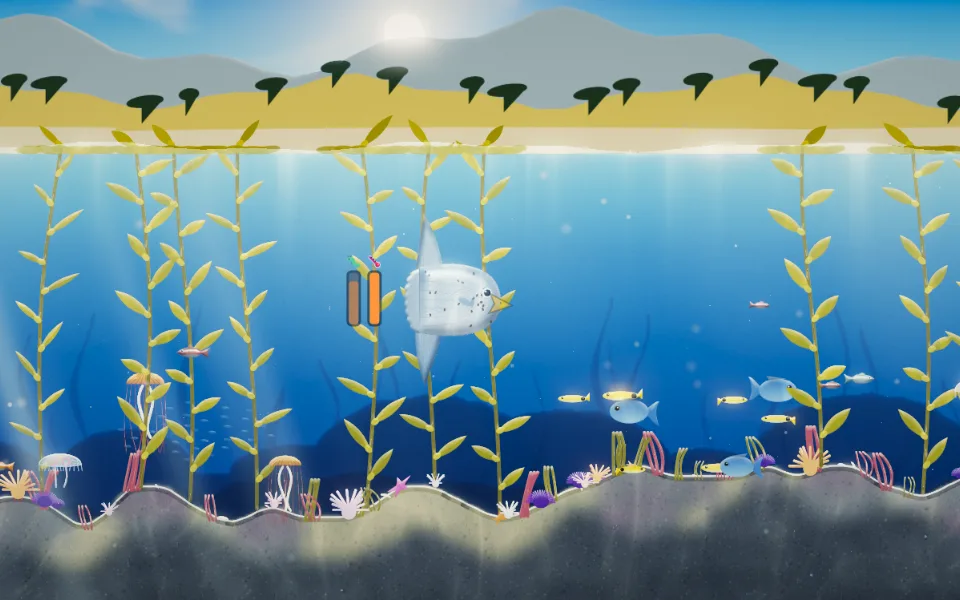
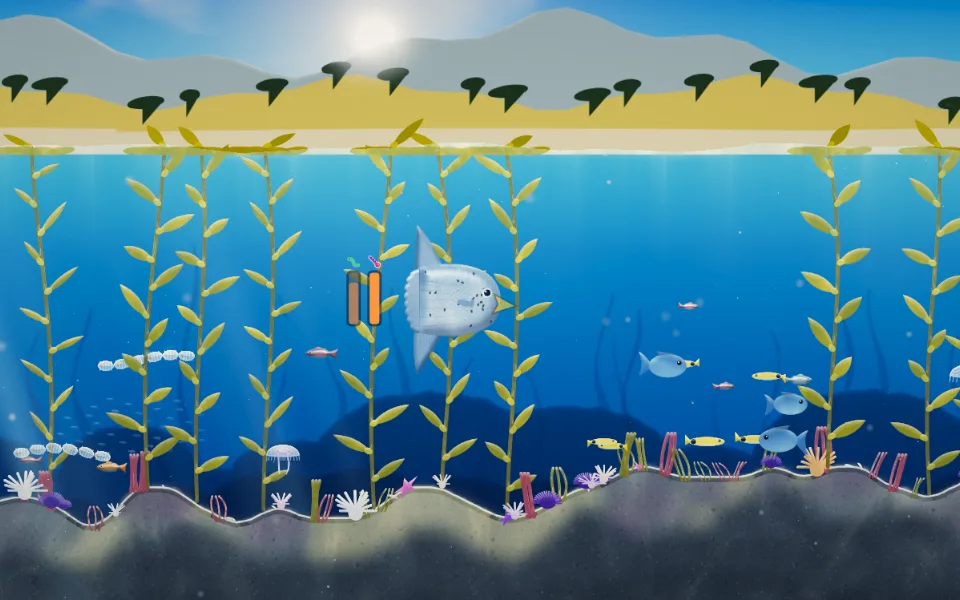
Sunfish: republish the clearer painted look (6455b95)

diff --git a/docs/sunfish/js/gfx.js b/docs/sunfish/js/gfx.js
@@ -141,22 +141,22 @@ const GFX = (function () {
       cc = mix(cc, vec3(.05, .06, .1), uNight * .85);
       col = mix(col, cc, dens * .6);
       /* the sea's far edge: a glint line where the water meets the sky */
-      col += vec3(.7, .85, 1.) * exp(-(sy - px.y) / 3.) * .25 * (uDay + .2);
-      src = .45 * uDay * (1. - .6 * uCloud) + .03;
+      col += vec3(.7, .85, 1.) * exp(-(sy - px.y) / 3.) * .12 * (uDay + .2);
+      src = .22 * uDay * (1. - .6 * uCloud) + .03;   /* not .45: the sky's light poured into the top of the sea as a milky band */
     } else {
       /* --- under the water --- */
       float d = max(0., wy - uSeaLevel), u = px.y - sy;
       col = water(d);
       /* light falls off from the surface; a soft glow below where the sun is */
-      col *= 1. + .25 * uDay * exp(-d / 45.);
-      col += uSunCol * toLin(vec3(.55, .85, .9)) * uDay * (1. - .6 * uCloud) * .08 * exp(-abs(px.x - uSun.x) / (uRes.x * .3)) * exp(-d / 100.);
+      col *= 1. + .1 * uDay * exp(-d / 45.);
+      col += uSunCol * toLin(vec3(.55, .85, .9)) * uDay * (1. - .6 * uCloud) * .05 * exp(-abs(px.x - uSun.x) / (uRes.x * .3)) * exp(-d / 100.);
       col += vec3(.25, .35, .55) * uMoon.z * .06 * exp(-abs(px.x - uMoon.x) / (uRes.x * .2)) * exp(-d / 120.);
       /* the surface seen from below: a bright skin, rippling cells of light, the sky's glow through Snell's window */
       float skin = exp(-u / (1.5 + uZoom * .7));
       float rip = caustic(vec2(wx * .012 + uTime * .02, uTime * .05 + wx * .003), uTime * .4);
       float under = exp(-u / (10. + 14. * uZoom));
       vec3 surfCol = mix(toLin(vec3(.62, .86, .9)), uSunCol, .25) * (uDay * (1. - .5 * uCloud) + .06 + uMoon.z * .12);
-      col += surfCol * (skin * .8 + under * (.2 + 1.1 * rip) * .22);   /* softer than Octopus: the open sea's top band washed out */
+      col += surfCol * (skin * .5 + under * (.2 + 1.1 * rip) * .1);   /* much softer than Octopus: a bright top band washed the open sea out milky */
       /* far boulders and kelp, three bands, blue with distance */
       if (uFarK > .01) {
         float t = uTime;
@@ -175,7 +175,7 @@ const GFX = (function () {
       }
       float xs = wx - d * uSlant;
       float shaft = n1(xs * .021 + uTime * .06) * n1(xs * .047 - uTime * .09 + 3.) * n1(xs * .009 + 7.);
-      src = uDay * (1. - .75 * uCloud) * exp(-d / 260.) * (.02 + 2.4 * shaft * shaft) * (.6 + .4 * exp(-u / 40.));
+      src = uDay * (1. - .75 * uCloud) * exp(-d / 260.) * (.02 + 2.4 * shaft * shaft) * (.6 + .15 * exp(-u / 40.));
     }
     o = vec4(col, clamp(src, 0., 1.));
   }`;
@@ -240,8 +240,8 @@ const GFX = (function () {
         float diff = .78 + .3 * top - .22 * bot + bump * .25;
         float cs = caustic(vec2(wx * .011, wy * .006 + wx * .002), uTime * .45) * uCaus * exp(-d / 380.) * (1. - uUnder) * 1.6;
         vec3 amb = wc * 2. + vec3(.04, .05, .062) * (1. - uNight * .6) + vec3(.012, .018, .034) * uNight;
-        lit = alb * (amb + (sunIn + moonIn) * diff * 1.5 + sunIn * cs * (1.1 + top * 1.5));
-        lit += (sunIn * .9 + moonIn * 2.) * edge * pow(max(-n.y, 0.), 1.5) * (.25 + .9 * dot(alb, vec3(.33)));
+        lit = alb * (amb + (sunIn + moonIn) * diff * 1.05 + sunIn * cs * (.8 + top * 1.1));   /* not 1.5: a silver sunfish near the top went white */
+        lit += (sunIn * .55 + moonIn * 2.) * edge * pow(max(-n.y, 0.), 1.5) * (.25 + .9 * dot(alb, vec3(.33)));
         lit += vec3(.03, .055, .065) * edge * (.35 + .65 * max(-n.y, 0.)) * (1. - uUnder * .5);   /* a soft outline so shapes read even in the deep */
         float hz = clamp(uHaze + smoothstep(250., 750., d) * .05, 0., .8);
         lit = mix(lit, wc * 1.6, hz);
@@ -255,7 +255,7 @@ const GFX = (function () {
     }
     if (under) {
       vec3 rays = texture(uRays, vUv).rgb;
-      col += rays * mix(uSunCol, toLin(vec3(.7, .95, 1.)), .5) * uRayK * (1. - w.a * .6) * (1. - uUnder);
+      col += rays * mix(uSunCol, toLin(vec3(.5, .88, 1.)), .75) * uRayK * (1. - w.a * .6) * (1. - uUnder);
     }
     o = vec4(col, 1.);
   }`;
@@ -313,7 +313,7 @@ const GFX = (function () {
     for (int y = -1; y <= 1; y += 2) for (int x = -1; x <= 1; x += 2) c += texture(uSrc, vUv + vec2(x, y) * uTexel).rgb;
     c *= .25;
     float l = max(c.r, max(c.g, c.b));
-    o = vec4(c * smoothstep(.8, 1.8, l), 1.);
+    o = vec4(c * smoothstep(1., 2.2, l), 1.);
   }`;
   const FS_BLUR = `#version 300 es
   precision highp float;
@@ -490,7 +490,7 @@ const GFX = (function () {
     bind(u, 'uBg', 0, T.bg.t); bind(u, 'uWorld', 1, worldTex); bind(u, 'uRays', 2, T.rays.t);
     common(u);
     gl.uniform2f(u.uTexel, 1 / pw, 1 / ph); f1(u, 'uDPR', dpr);
-    f1(u, 'uUnder', L.underground ? 1 : 0); f1(u, 'uRayK', L.underground ? 0 : .85);
+    f1(u, 'uUnder', L.underground ? 1 : 0); f1(u, 'uRayK', L.underground ? 0 : .65);
     f1(u, 'uHaze', clamp(.04 + storm * .25 + (L.winter ? .02 : 0), 0, .6)); f1(u, 'uCaus', (1 - cloud * .7) * 1.0);
     f3(u, 'uSun', sun); f3(u, 'uSunCol', sunCol); f3(u, 'uMoon', moon); f3(u, 'uAbove', above); f3(u, 'uSky', sky);
     draw();

diff --git a/docs/sunfish/js/render.js b/docs/sunfish/js/render.js
@@ -22,7 +22,7 @@ const Render = (function () {
   const HI = 4;
   const SKY = [
     [0.00, '#070b22', '#14234a'], [0.19, '#141a44', '#5a3a62'], [0.25, '#7a8fc8', '#ffb98a'],
-    [0.36, '#2f86d8', '#9ad0ea'], [0.55, '#2a7fd4', '#8ccbe8'], [0.70, '#4a8ad0', '#ffc890'],
+    [0.36, '#2a7cd2', '#6cb4e2'], [0.55, '#2474cc', '#62afe0'], [0.70, '#4a8ad0', '#ffc890'],
     [0.79, '#3d3f8c', '#ff8a5c'], [0.86, '#121a48', '#3a2f5c'], [1.00, '#070b22', '#14234a']
   ];
   const stars = [], snow = [], flakes = [];
